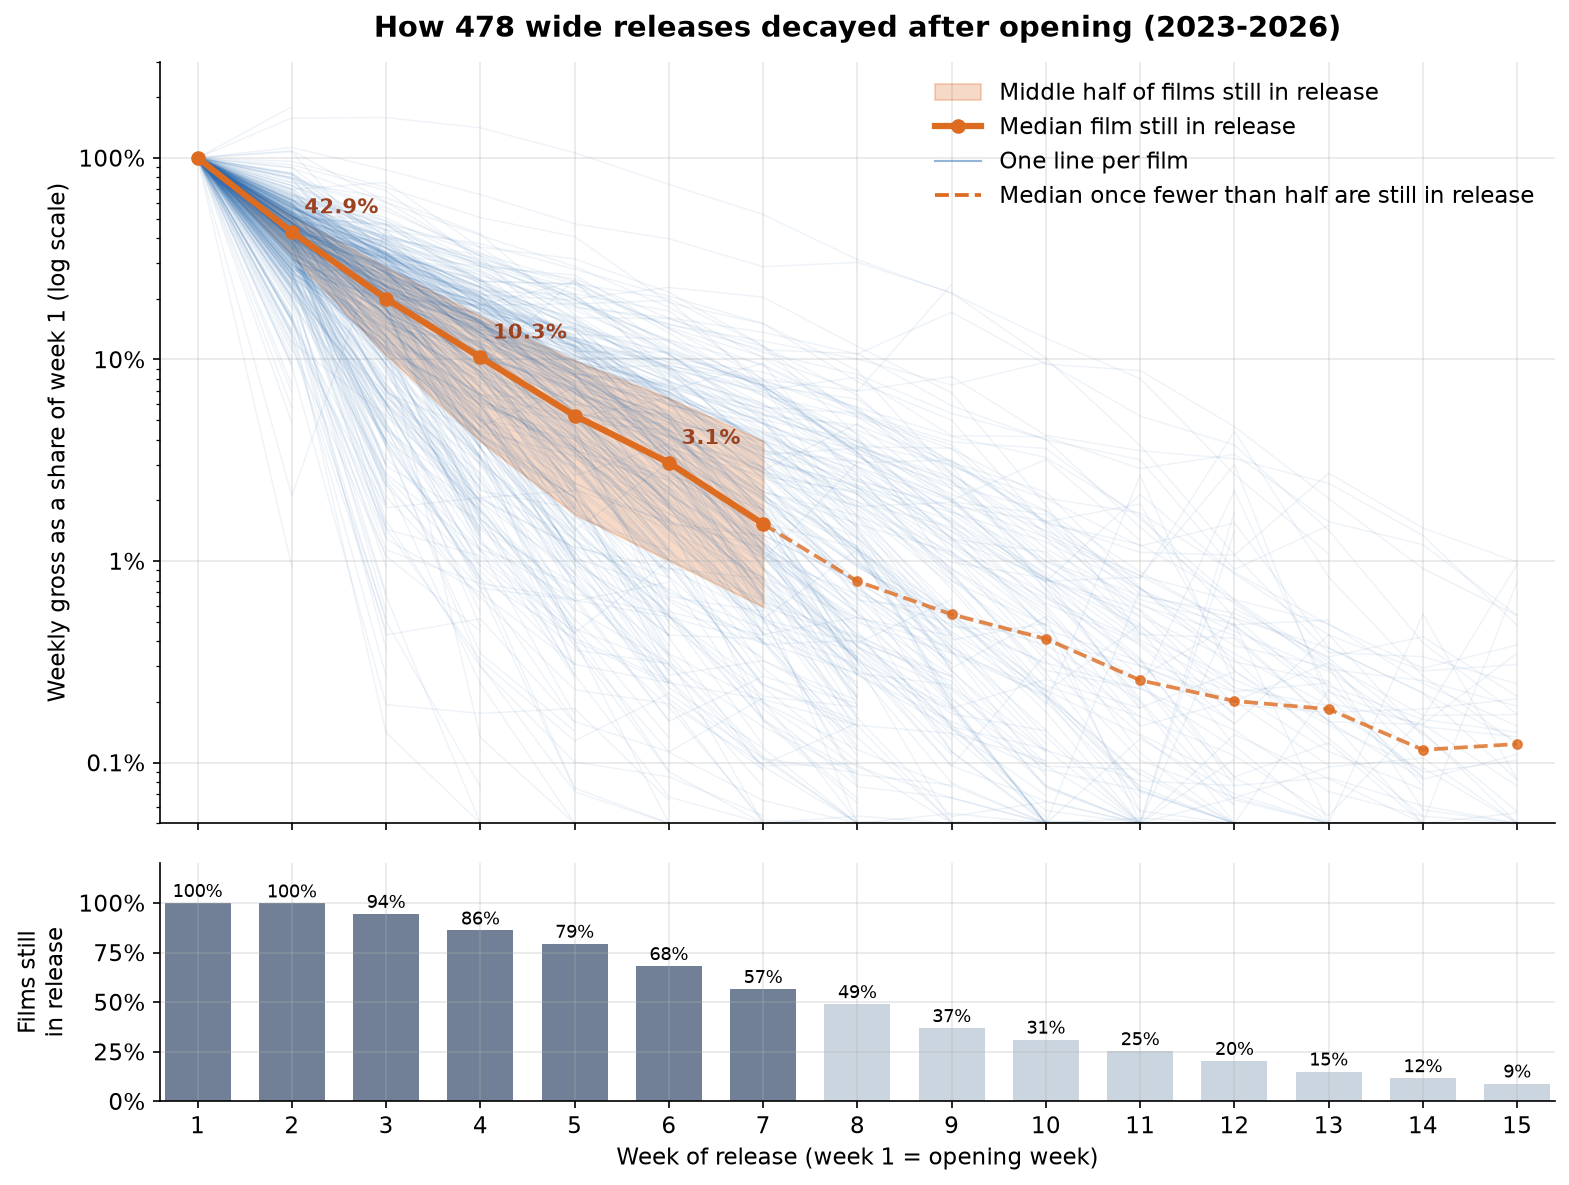
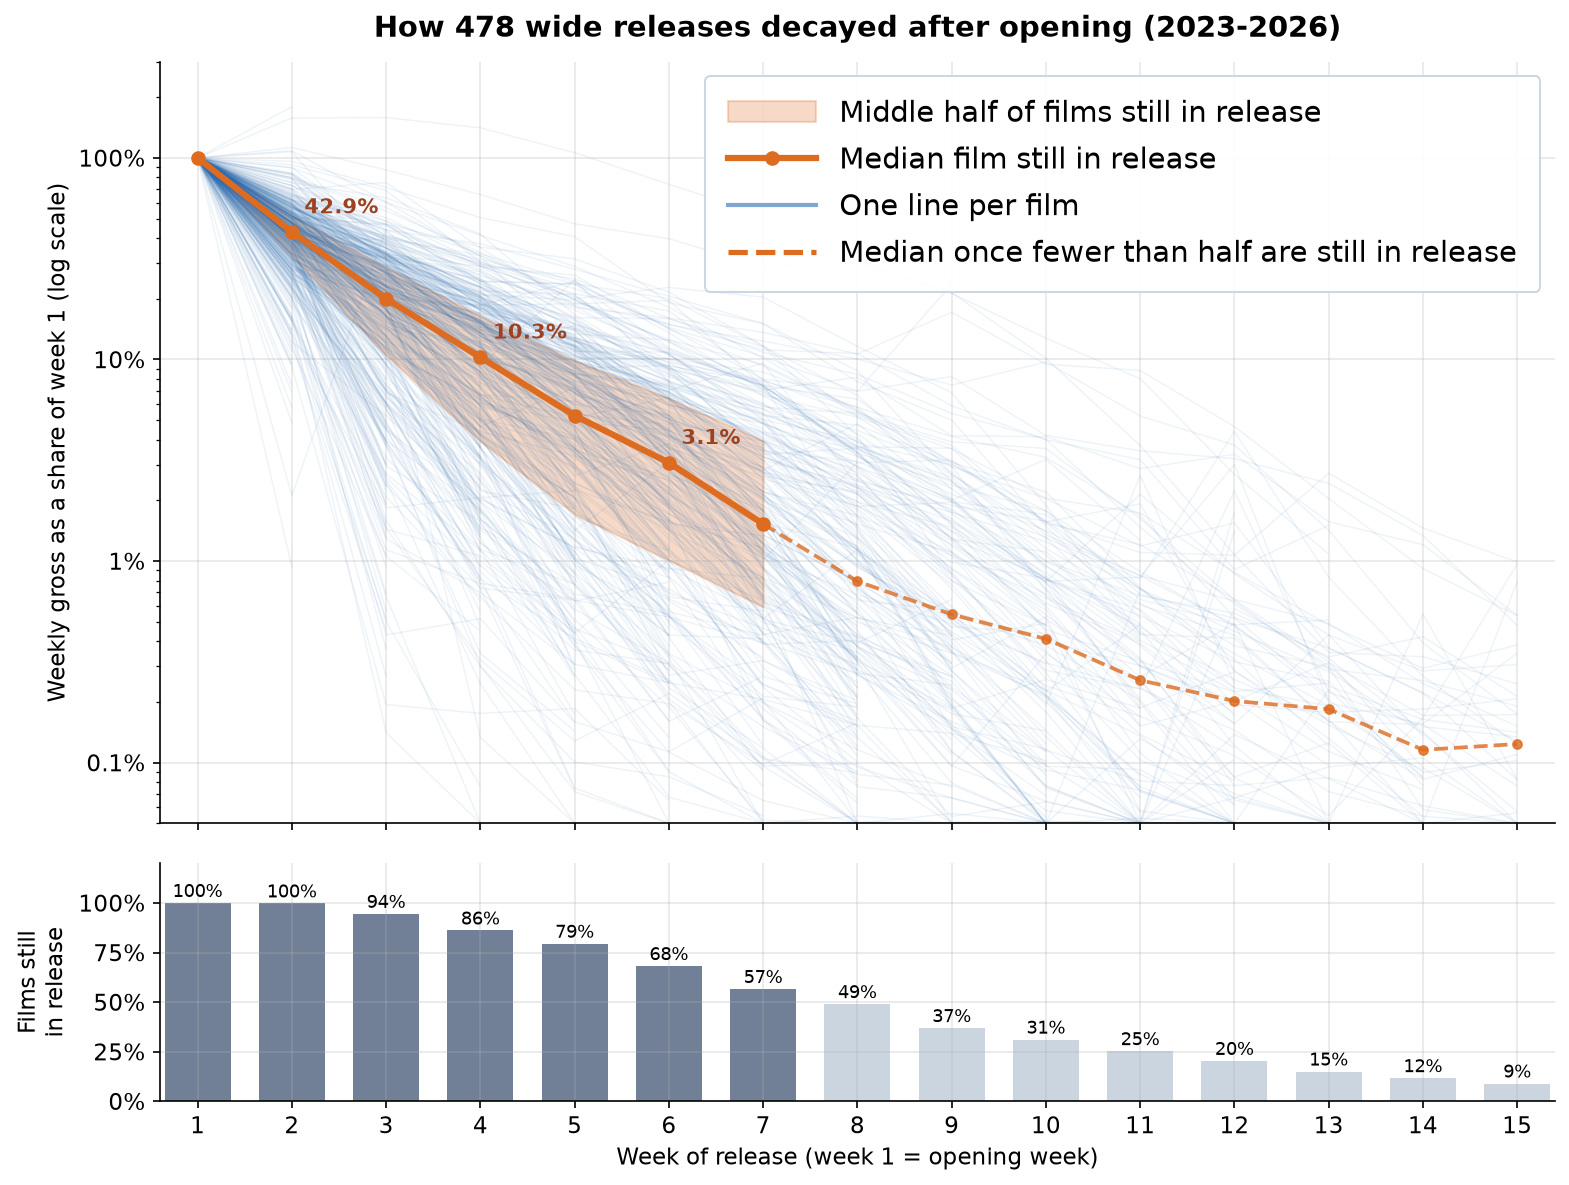
Enlarge legend on all-films decay curve figure

Changed region(s): [[0.4372, 0.0624, 0.9681, 0.2498]]

diff --git a/analyze.py b/analyze.py
@@ -590,9 +590,10 @@ def fig_all_curves(aligned: pd.DataFrame, films: pd.DataFrame, overall: pd.DataF
     ax.set_ylabel("Weekly gross as a share of week 1 (log scale)")
     years = films["open_chart_date"].dt.year
     ax.set_title(f"How {len(films)} wide releases decayed after opening ({years.min()}-{years.max()})")
-    ax.plot([], [], color=BLUE, alpha=0.5, lw=1, label="One line per film")
-    ax.plot([], [], color=ORANGE, lw=1.8, ls="--", label="Median once fewer than half are still in release")
-    ax.legend(loc="upper right")
+    ax.plot([], [], color=BLUE, alpha=0.6, lw=2, label="One line per film")
+    ax.plot([], [], color=ORANGE, lw=2.5, ls="--", label="Median once fewer than half are still in release")
+    ax.legend(loc="upper right", fontsize=14, handlelength=3, borderpad=0.8, labelspacing=0.6,
+              frameon=True, facecolor="white", edgecolor="#cbd5e0", framealpha=0.95)
 
     share = overall["share_reporting"]
     share_ax.bar(share.index, share, color=[GREY if r else "#cbd5e0" for r in reliable], width=0.7)
